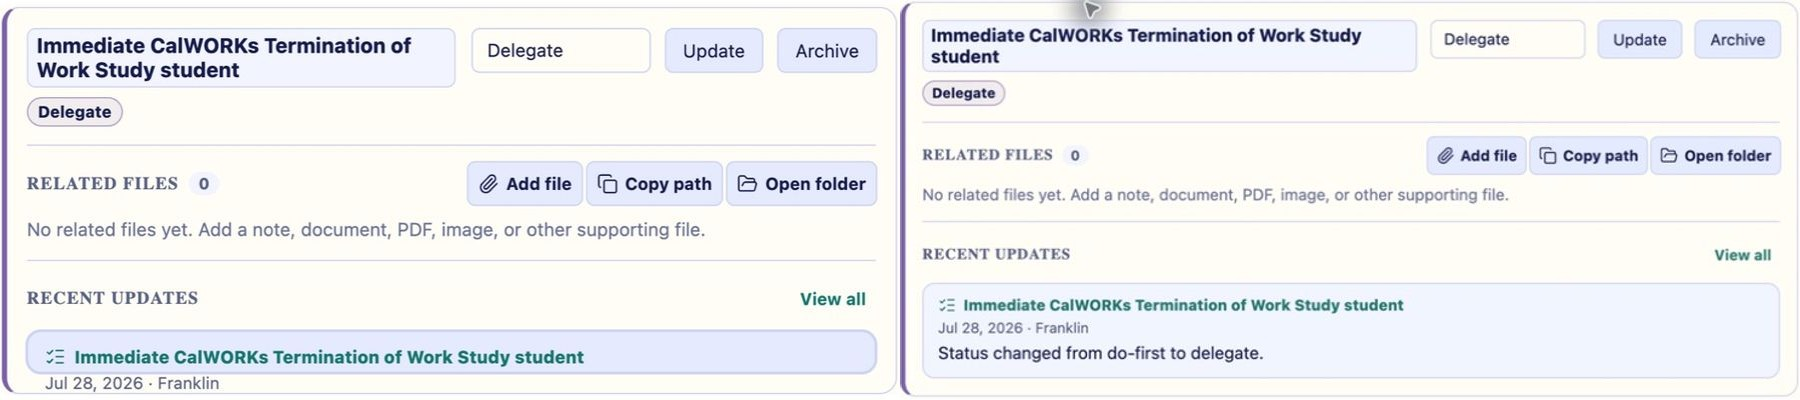
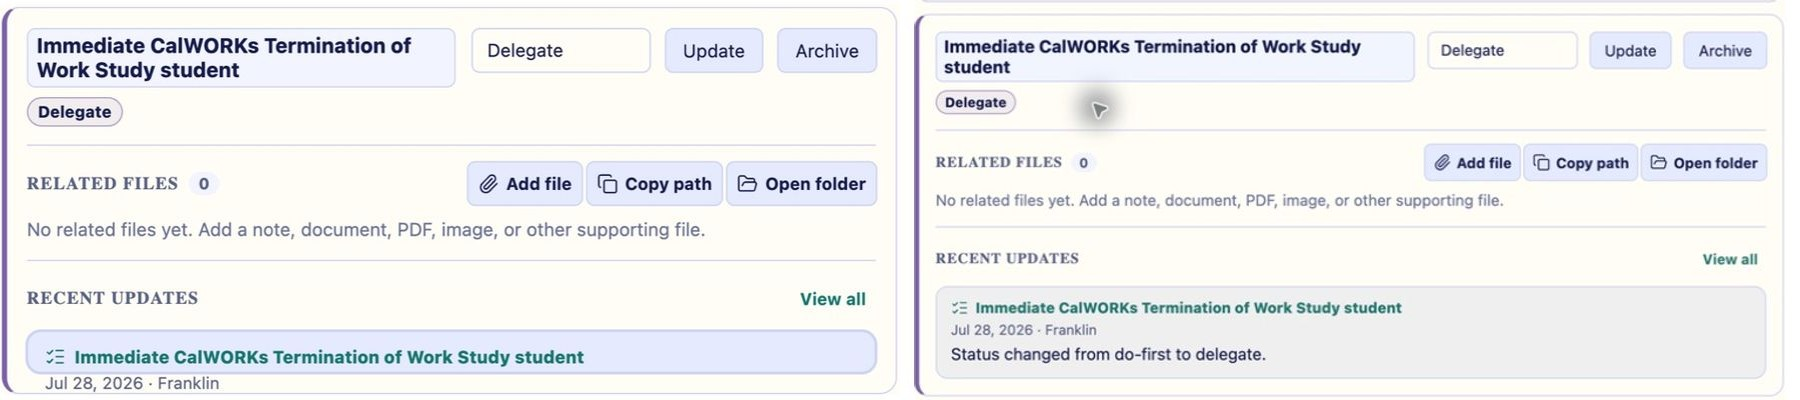
Auto-sync plugin updates from always-on Mac

Changed region(s): [[0.4978, 0.0, 1.0, 0.99]]

diff --git a/design-qa.md b/design-qa.md
@@ -1,6 +1,64 @@
-# Design QA — Long Task Titles
+# Design QA — Dashboard Card Overflow
 
-## QA target
+## Current QA target: Recent update auto height
+
+- Source visual truth:
+  - `docs/testing/visual/reference-recent-update-overflow.jpg` (1016 × 1280)
+- Implementation screenshot:
+  - `docs/testing/visual/implementation-recent-update-overflow-fixed.jpg` (1198 × 711)
+- Focused side-by-side comparison:
+  - `docs/testing/visual/comparison-recent-update-overflow.jpg` (1800 × 400)
+- Environment: Obsidian 1.12.7 desktop, FJG Vault, light theme, live task data.
+- Viewport: 1198 × 711 captured application pixels.
+- State: Tasks tab, Delegated view, unfiltered list, with `Immediate CalWORKs
+  Termination of Work Study student` immediately above the next task card.
+- Density normalization: the source and implementation task-card regions were
+  cropped and each resized to 900 × 400 with contain scaling before the focused
+  comparison. Browser and application chrome were excluded from the focused
+  judgment.
+
+## Current required surfaces
+
+- Recent Updates title row.
+- Update date and actor.
+- Full update text.
+- Bottom boundary and padding of the update button.
+- Separation between the current task and the following task card.
+- Existing task title, status, Related files, and actions.
+
+## Current comparison history
+
+### Pass 1
+
+- Finding (P1): Obsidian's theme constrained the Recent Updates button to a
+  fixed control height. Only the task-title row occupied the button background;
+  the date, actor, and update text spilled below the task card and underneath
+  the following task.
+- Fix: added a dashboard-scoped update-button reset with `height: auto`,
+  `min-height: 0`, `max-height: none`, normal whitespace wrapping, and visible
+  overflow. The update title row now top-aligns and may wrap safely.
+
+### Final comparison
+
+- Full-view evidence: the corrected unfiltered Delegated list shows the entire
+  update panel inside the Immediate CalWORKs task card and a clean gap before
+  `Onboarding and Initial Meetings — CalWORKs`.
+- Focused evidence: the side-by-side comparison shows the source spill on the
+  left and the corrected title, date, actor, and full update line contained on
+  the right.
+- Typography: existing family, weights, sizes, and hierarchy are preserved;
+  update text is no longer cropped or visually detached.
+- Spacing and layout: the update button now owns its natural content height and
+  retains internal padding and card-to-card separation.
+- Colors and tokens: existing dashboard surface, teal update title, muted
+  metadata, and borders are unchanged.
+- Image and icon quality: the existing Obsidian `list-checks` icon remains
+  sharp and unchanged; no raster or replacement asset was introduced.
+- Copy and content: the complete task title, `Jul 28, 2026 · Franklin`, and
+  `Status changed from do-first to delegate.` are visible.
+- No P0, P1, or P2 findings remain.
+
+## Prior QA target: Long task titles
 
 - Source references:
   - `docs/testing/visual/reference-long-title-furniture.jpg` (919 × 315)
@@ -47,6 +105,6 @@
 - Related files and Recent updates remain aligned and unclipped.
 - No P0, P1, or P2 visual issues remain.
 
-## Result
+## Final result
 
-passed
+final result: passed

diff --git a/docs/testing/validation-report-0.8.2.md b/docs/testing/validation-report-0.8.2.md
@@ -1,0 +1,36 @@
+# FJG Task Manager v0.8.2 Validation
+
+Date: 2026-07-28
+
+## Scope
+
+Validated natural-height Recent Updates cards, complete update-content
+visibility, and task-card separation on the native Obsidian dashboard.
+
+## Automated validation
+
+- TypeScript type checking passed.
+- Thirteen test files passed.
+- Fifty-eight tests passed.
+- Production builds succeeded for the Obsidian plugin, Chrome clipper, task
+  CLI, and migration tool.
+- Release packaging completed with BRAT-compatible root files and both ZIP
+  artifacts.
+
+## Live Obsidian validation
+
+- Installed FJG Task Manager v0.8.2 into the canonical FJG Vault and reloaded
+  Obsidian.
+- Opened the live Delegated view containing `Immediate CalWORKs Termination of
+  Work Study student`.
+- Confirmed the update title, `Jul 28, 2026 · Franklin`, and `Status changed
+  from do-first to delegate.` are all visible inside the update panel.
+- Confirmed the update panel remains inside its task card.
+- Confirmed `Onboarding and Initial Meetings — CalWORKs` begins below the
+  completed task boundary without overlap.
+- Confirmed the update card remains clickable through its full visible area.
+
+## Result
+
+Pass. FJG Task Manager v0.8.2 displays complete Recent Updates content without
+clipping or covering adjacent tasks.

diff --git a/docs/testing/acceptance-checklist.md b/docs/testing/acceptance-checklist.md
@@ -24,6 +24,8 @@
 - [x] Confirm the path helper falls back to a vault-relative path on mobile.
 - [x] Confirm multiline task titles stay inside an auto-height callout without overlapping status metadata.
 - [x] Confirm long-title action controls remain top-aligned on the live desktop dashboard.
+- [x] Confirm Recent Updates cards contain their task title, metadata, and full update text.
+- [x] Confirm a task with updates does not overlap or obscure the following task card.
 - [x] Confirm manual Refresh reloads recent update cards.
 - [x] Confirm archived task workspaces appear in Archived and expose Reopen to Do First.
 - [x] Confirm only registered projects with zero open tasks expose Archive Project.
@@ -61,4 +63,4 @@
 - [x] Compare fixture source and imported counts and stable IDs.
 - [ ] Test Obsidian Sync on another Mac or mobile device.
 
-See [Validation Report — 0.8.1](validation-report-0.8.1.md) for the latest reproducible validation record and remaining manual acceptance.
+See [Validation Report — 0.8.2](validation-report-0.8.2.md) for the latest reproducible validation record and remaining manual acceptance.

diff --git a/CHANGELOG.md b/CHANGELOG.md
@@ -1,5 +1,24 @@
 # Changelog
 
+## 0.8.2 — 2026-07-28
+
+### Fixed
+
+- Let Recent Updates cards grow to their natural content height instead of
+  allowing the date and update text to spill beneath the task workspace card.
+- Keep update titles, metadata, and multiline update text contained inside the
+  clickable update surface.
+- Preserve clean separation between a task with updates and the task card that
+  follows it.
+
+### Validation
+
+- Reproduce the issue with `Immediate CalWORKs Termination of Work Study
+  student` in the live Delegated view.
+- Confirm the title, date, actor, and full status-change text remain inside the
+  task card with the following Onboarding task visible below.
+- Pass all automated tests, TypeScript validation, and production builds.
+
 ## 0.8.1 — 2026-07-28
 
 ### Fixed
